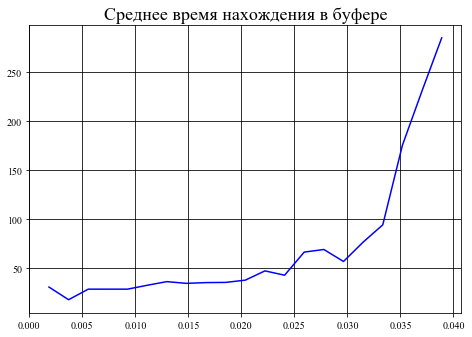
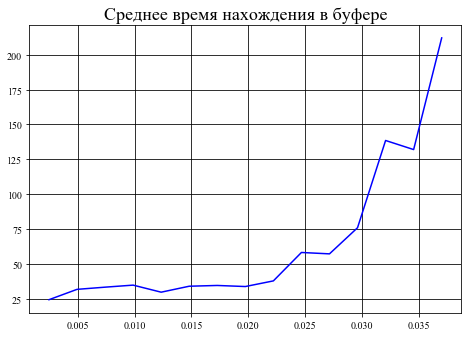
new

diff --git a/laba1.py b/laba1.py
@@ -14,16 +14,15 @@ rcParams['font.family']='fantasy'
 rcParams['font.fantasy']='Times New Roman'
 
 N=27
-M=250
+M=300
 P=[]
-p=(1/N)/20
+p=(1/N)/15
 P.append(p)
 T=[]
 Por=[]
 while p<=(1/N):
-    p+=((1/N)/20)
+    p+=((1/N)/15)
     P.append(p)
-
 
 for i in range(len(P)):
     frem=[]
@@ -32,7 +31,6 @@ for i in range(len(P)):
         slot=[0 for i in range(N)]  
         for k in range(N):
             slot[k]=random.choices([1, 0], weights=[P[i],1-P[i]])[0]
-        #s=sum(slot)
         Q.append(sum(slot))
         if Q[j-1]>0:
             Q[j]=Q[j-1]-1+sum(slot)
@@ -41,15 +39,10 @@ for i in range(len(P)):
         frem.append(slot)
     T.append((sum(Q)/len(Q))/P[i])
     frem=np.array(frem)
-    s1=(np.sum(frem, axis = 0))
-    s1=s1.T
-    t=0
-    for m in range(len(s1)):
-        if s1[m]>1:
-            t+=s1[m]
+    s1=np.sum(frem, axis = 0)
+    t=sum([i for i in s1 if i>1])
     Por.append(t/sum(s1))
             
-
 fig = plt.figure()
 ax1 = fig.add_axes([0,1.2,1,1])
 ax1.grid(True, color = [0,0,0])
